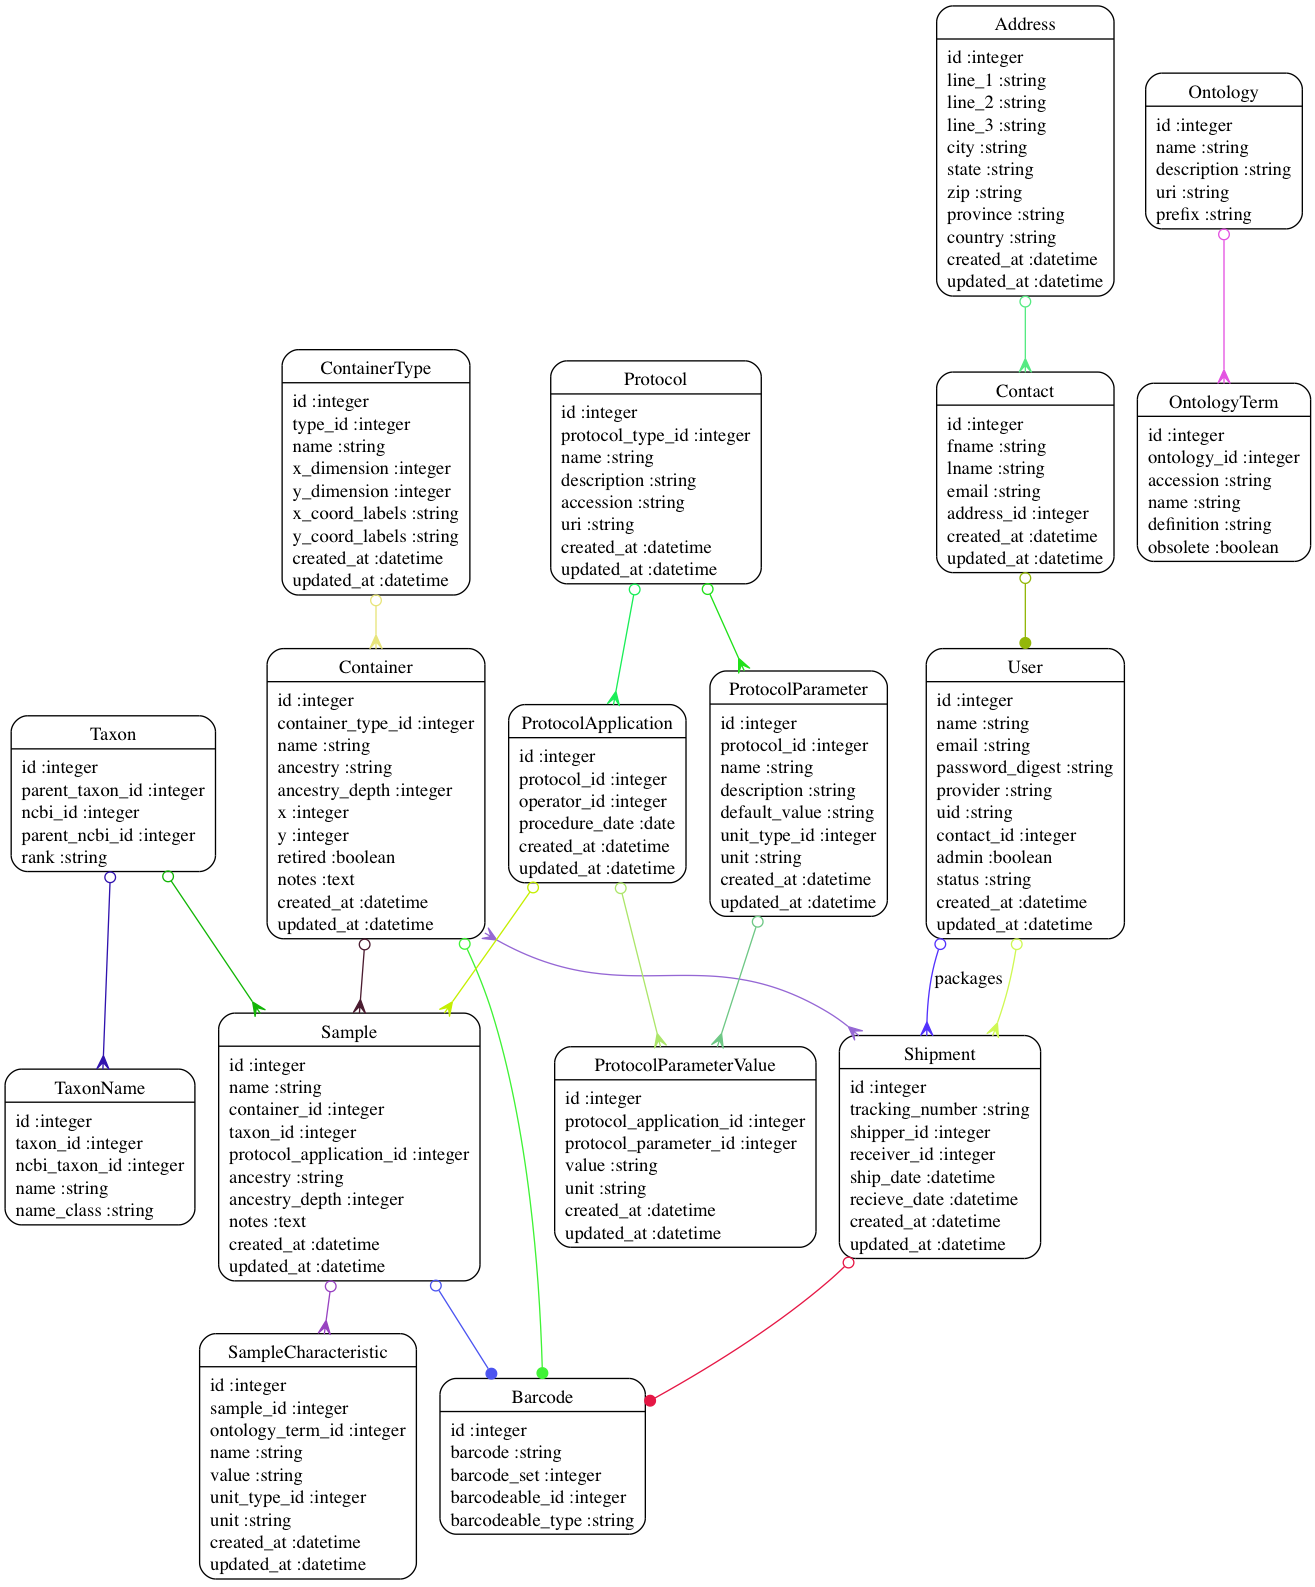
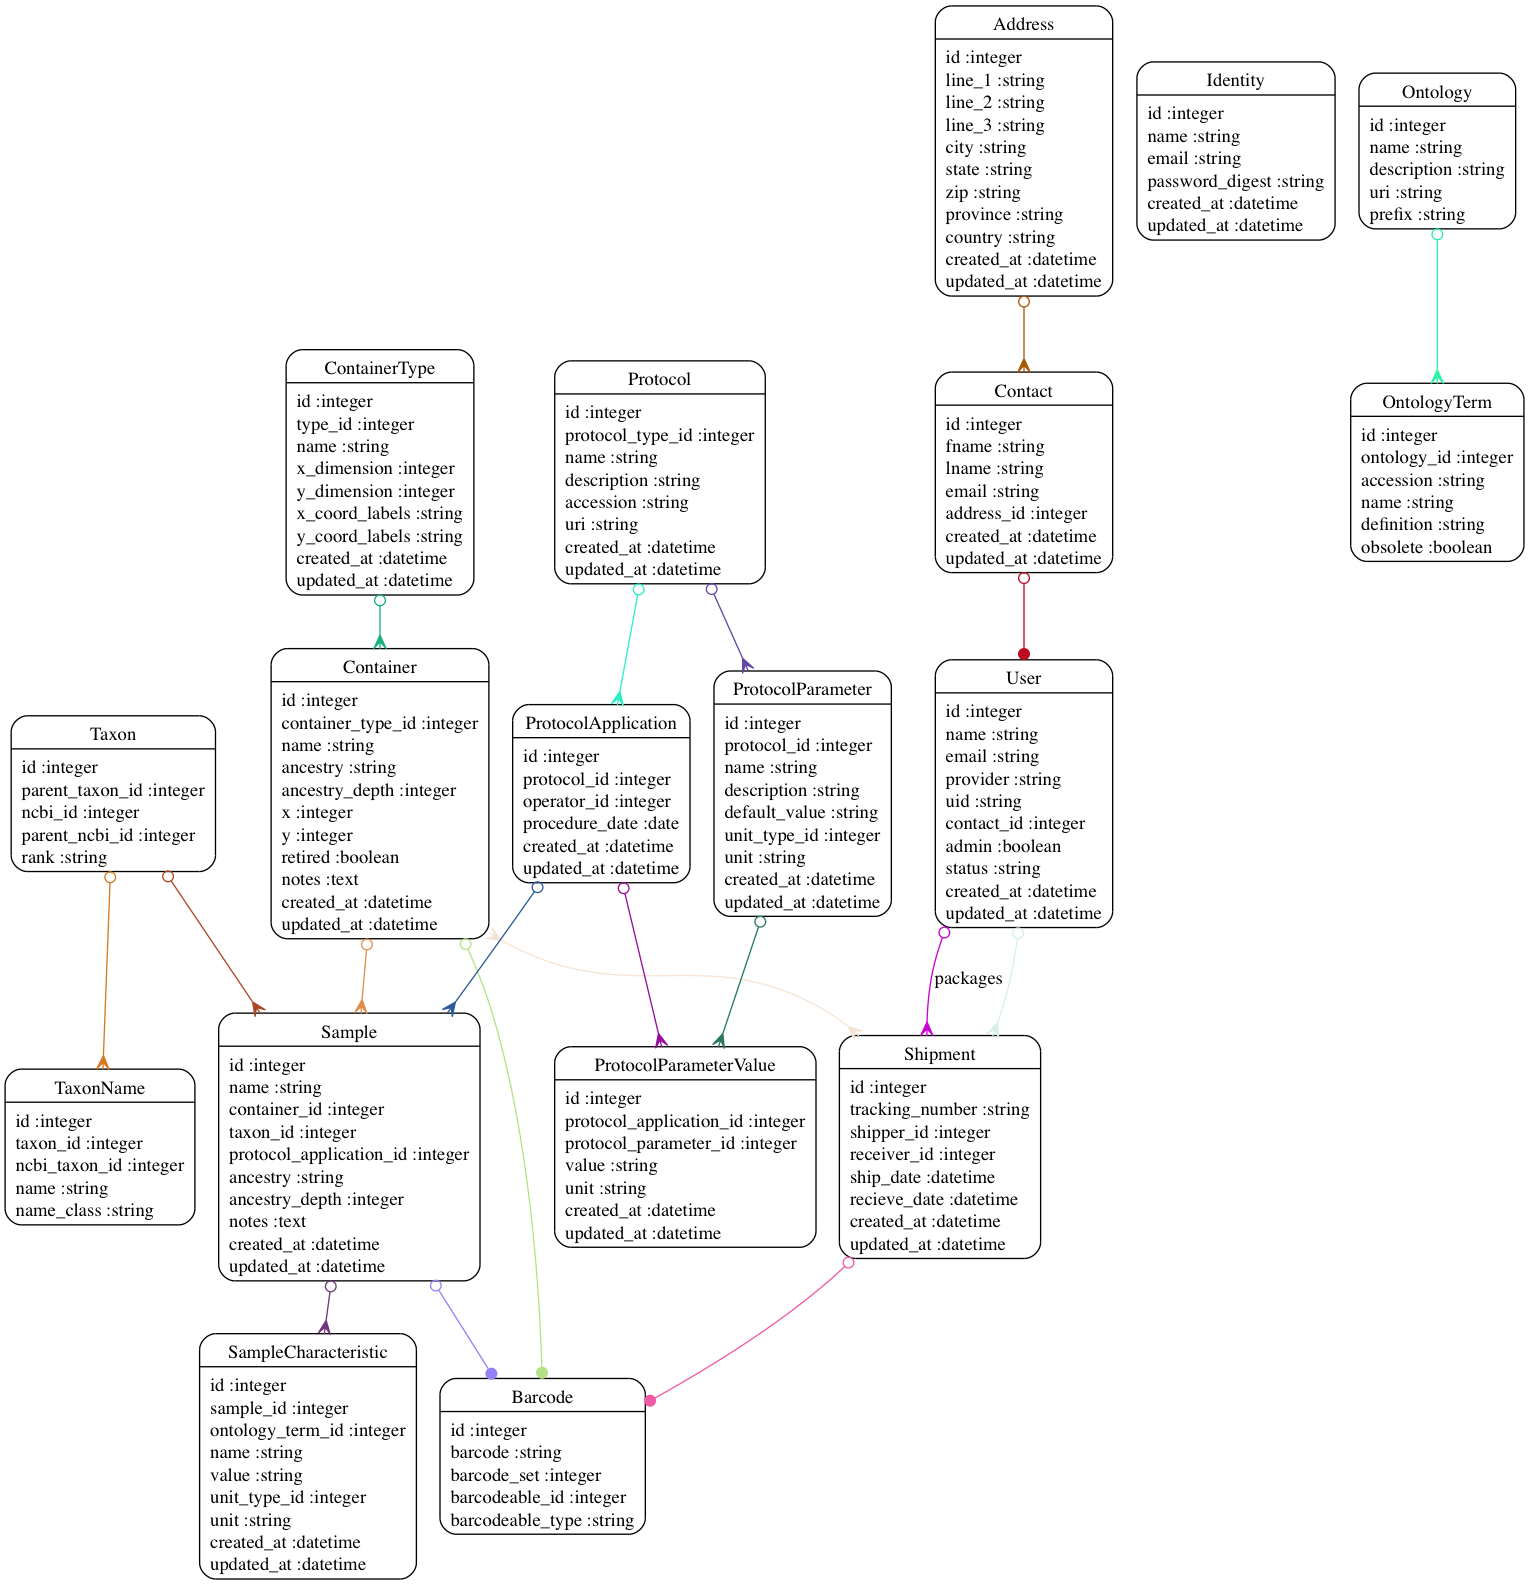
updated DB to move pw to identity model. models re-annotated. mostly works, need to stage a user as pending registration

diff --git a/app/models/identity.rb b/app/models/identity.rb
@@ -1,3 +1,15 @@
+# == Schema Information
+#
+# Table name: identities
+#
+#  id              :integer          not null, primary key
+#  name            :string(255)
+#  email           :string(255)
+#  password_digest :string(255)
+#  created_at      :datetime         not null
+#  updated_at      :datetime         not null
+#
+
 class Identity < OmniAuth::Identity::Models::ActiveRecord
   attr_accessible :email,
     :name,

diff --git a/test/unit/identity_test.rb b/test/unit/identity_test.rb
@@ -1,3 +1,15 @@
+# == Schema Information
+#
+# Table name: identities
+#
+#  id              :integer          not null, primary key
+#  name            :string(255)
+#  email           :string(255)
+#  password_digest :string(255)
+#  created_at      :datetime         not null
+#  updated_at      :datetime         not null
+#
+
 require 'test_helper'
 
 class IdentityTest < ActiveSupport::TestCase

diff --git a/config/initializers/omniauth.rb b/config/initializers/omniauth.rb
@@ -6,9 +6,9 @@ Rails.application.config.middleware.use OmniAuth::Builder do
     end
 
     provider :identity, fields: [:email,:name],
-        on_failed_registration: lambda do |env|
+        on_failed_registration: lambda {|env|
             IdentitiesController.action(:new).call(env)
-        end
+        }
 
     provider :basecamp, ENV['BASECAMP_CLIENT_ID'], ENV['BASECAMP_SECRET']
 

diff --git a/app/models/user.rb b/app/models/user.rb
@@ -8,6 +8,8 @@
 #  provider   :string(255)
 #  uid        :string(255)
 #  contact_id :integer
+#  admin      :boolean
+#  status     :string(255)      default("pending")
 #  created_at :datetime         not null
 #  updated_at :datetime         not null
 #

diff --git a/test/unit/user_test.rb b/test/unit/user_test.rb
@@ -8,6 +8,8 @@
 #  provider   :string(255)
 #  uid        :string(255)
 #  contact_id :integer
+#  admin      :boolean
+#  status     :string(255)      default("pending")
 #  created_at :datetime         not null
 #  updated_at :datetime         not null
 #
